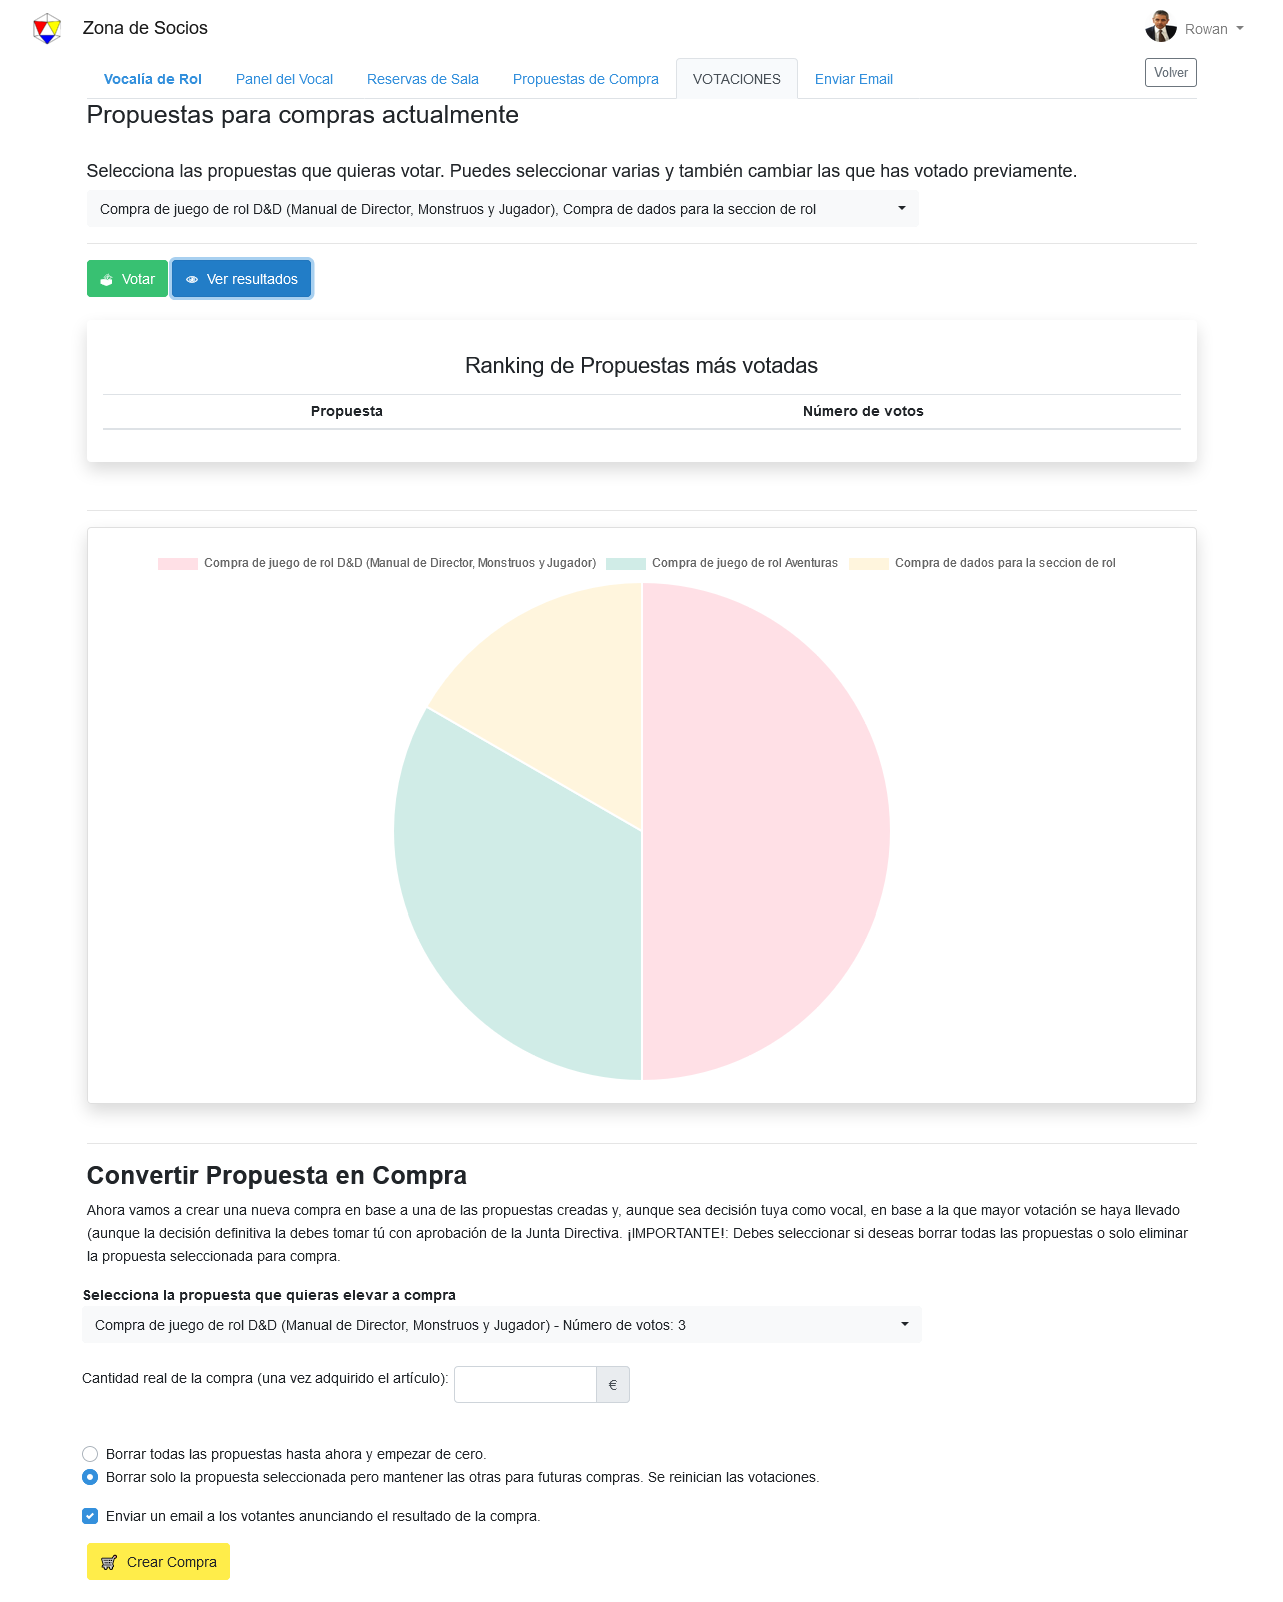
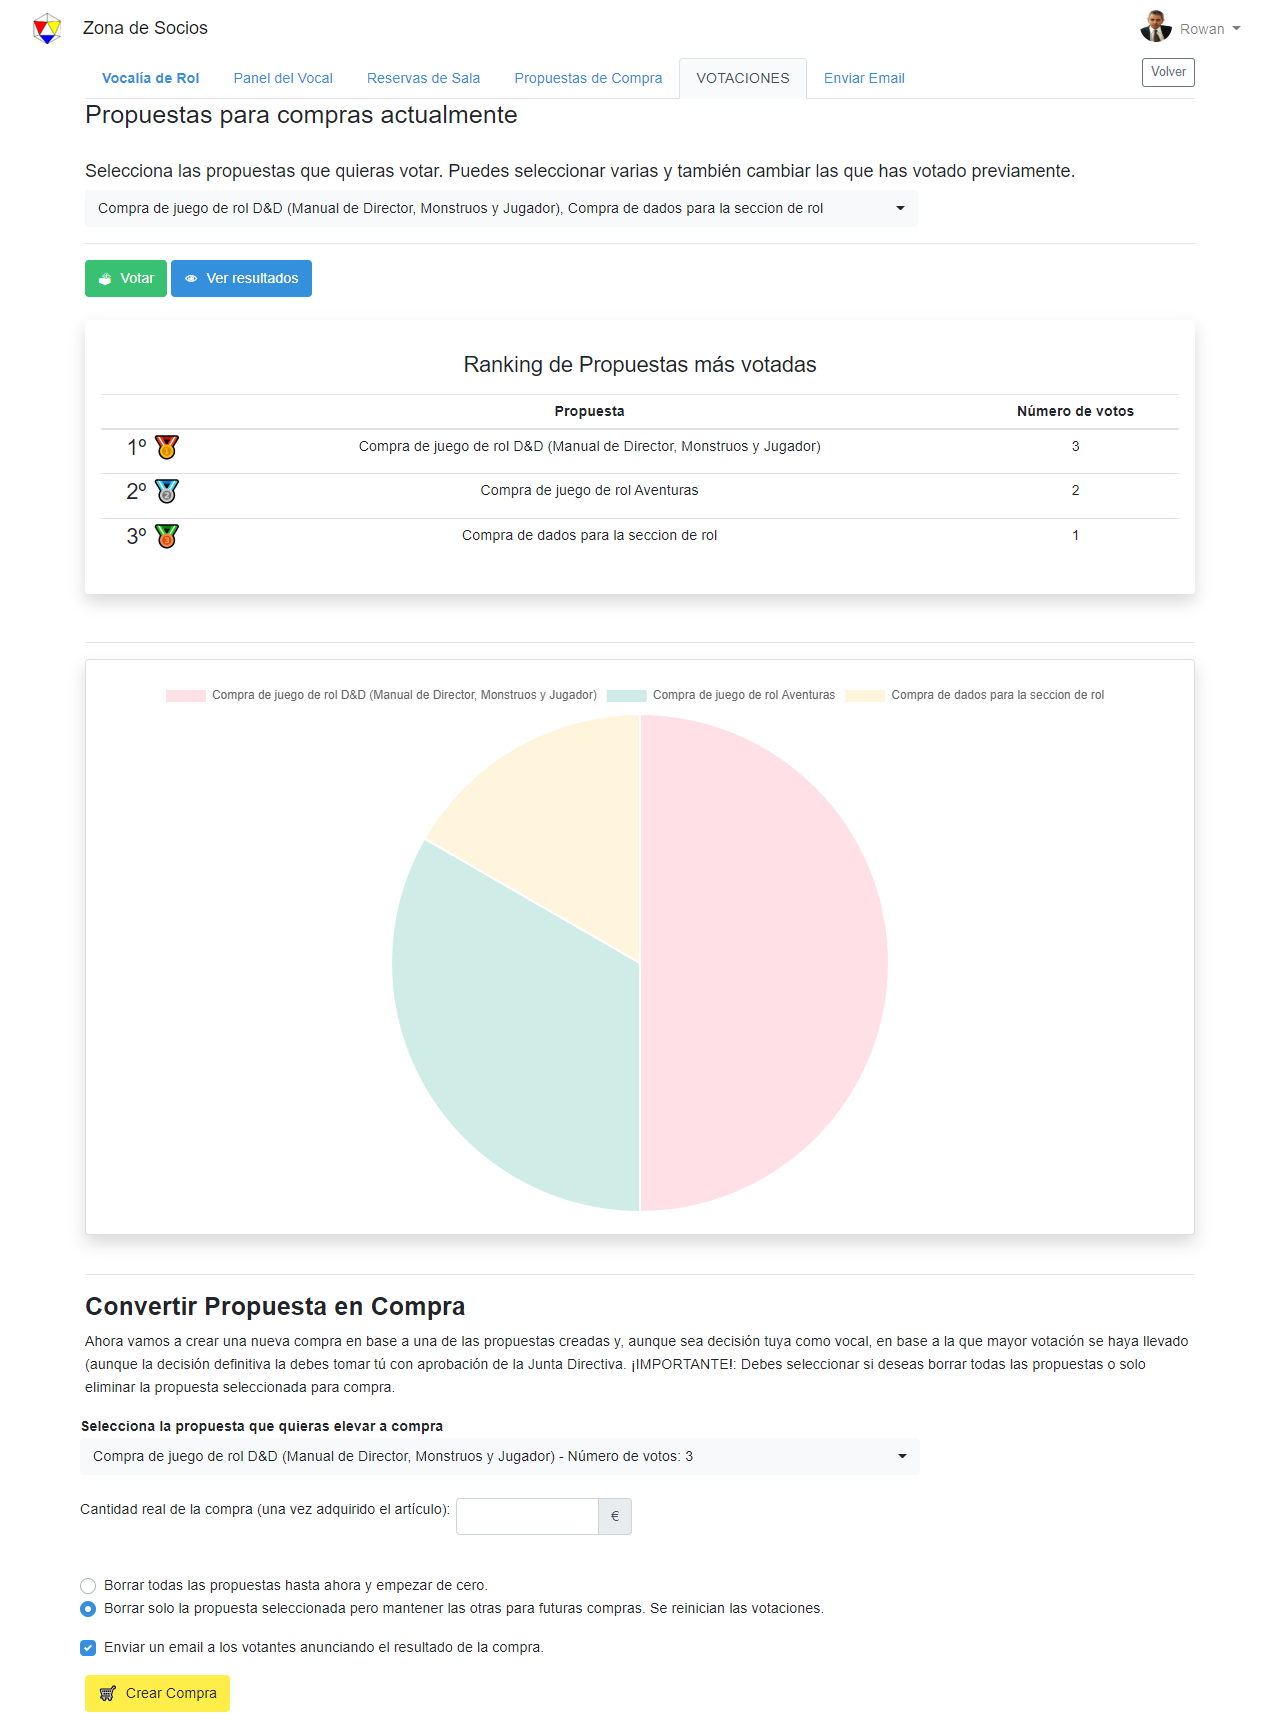
Images modified

diff --git a/resources/views/vocalia/v1.blade.php b/resources/views/vocalia/v1.blade.php
@@ -31,30 +31,42 @@
             </tr>
             </thead>
             <tbody>
-                @for ($i = 0; $i < 3; $i++)
-                    @if(!isset($propuestas[$i]))
-                        @switch($i)
-                            @case(0)
-                                <tr>
-                                    <th scope="row"><h3>1º &#129351; </h3></th>
-                                    <td>{{$propuestas[$i]['propuesta']}}</td>
-                                    <td>{{$propuestas[$i]['numVotos']}}</td>
-                                </tr>
-                                @break
-
+                @php
+                    $count = 1;
+                @endphp
+                @for ($i = 0; $i < count($propuestas); $i++)
+                    @if(isset($propuestas[$i]))
+                        @switch($count)
                             @case(1)
                                 <tr>
-                                    <th scope="row"><h3>2º 	&#129352; </h3></th>
+                                    <th scope="row"><h4>1º &#129351; </h4></th>
                                     <td>{{$propuestas[$i]['propuesta']}}</td>
                                     <td>{{$propuestas[$i]['numVotos']}}</td>
                                 </tr>
+                                @php
+                                    $count++;
+                                @endphp
                                 @break
+
                             @case(2)
                                 <tr>
-                                    <th scope="row"><h3>3º &#129353; </h3></th>
+                                    <th scope="row"><h4>2º 	&#129352; </h4></th>
                                     <td>{{$propuestas[$i]['propuesta']}}</td>
                                     <td>{{$propuestas[$i]['numVotos']}}</td>
                                 </tr>
+                                @php
+                                    $count++;
+                                @endphp
+                                @break
+                            @case(3)
+                                <tr>
+                                    <th scope="row"><h4>3º &#129353; </h4></th>
+                                    <td>{{$propuestas[$i]['propuesta']}}</td>
+                                    <td>{{$propuestas[$i]['numVotos']}}</td>
+                                </tr>
+                                @php
+                                    $count++;
+                                @endphp
                                 @break
                         @endswitch
                     @endif
